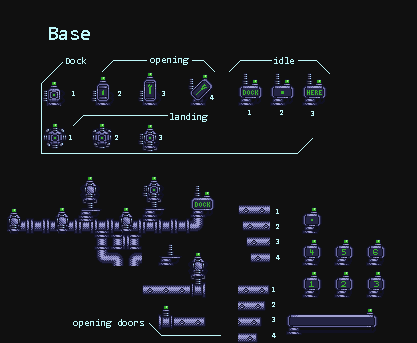
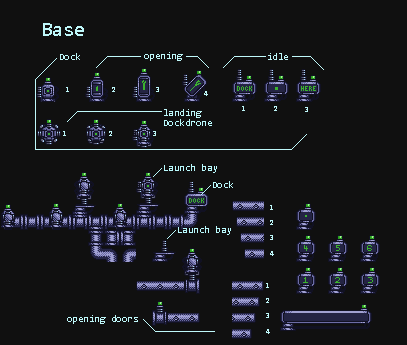
Assets and docs update

diff --git a/README.md b/README.md
@@ -58,7 +58,14 @@ Classic shooter flipped upside down as you descend into the life filled oceans o
 
 <h2>Base</h2>
 <img src = 'doc/assets/base.png'>
-  <p>Coming soon</p>
+  <h3>Docks and launch bays</h3>
+  <p>Dockdrone has 3 frame landing animation. From landed state it can transition to closed dock.</p>
+  <p>Closed dock has three frame opening animation. </p>
+  <p>Open dock has three frame idle animation. </p>
+  <p>Docks can open based on game progress. </p>
+  <p>Launch bay can hold dockdrone in its landed state or ship upgrade</p>
+  <h3>Tiles and doors</h3>
+  <p>Opening doors have 4 frame open animation</p>
   <img src = 'public/assets/bubble.png'><br />
 
 <h2>Other assets and Tilesets</h2>
